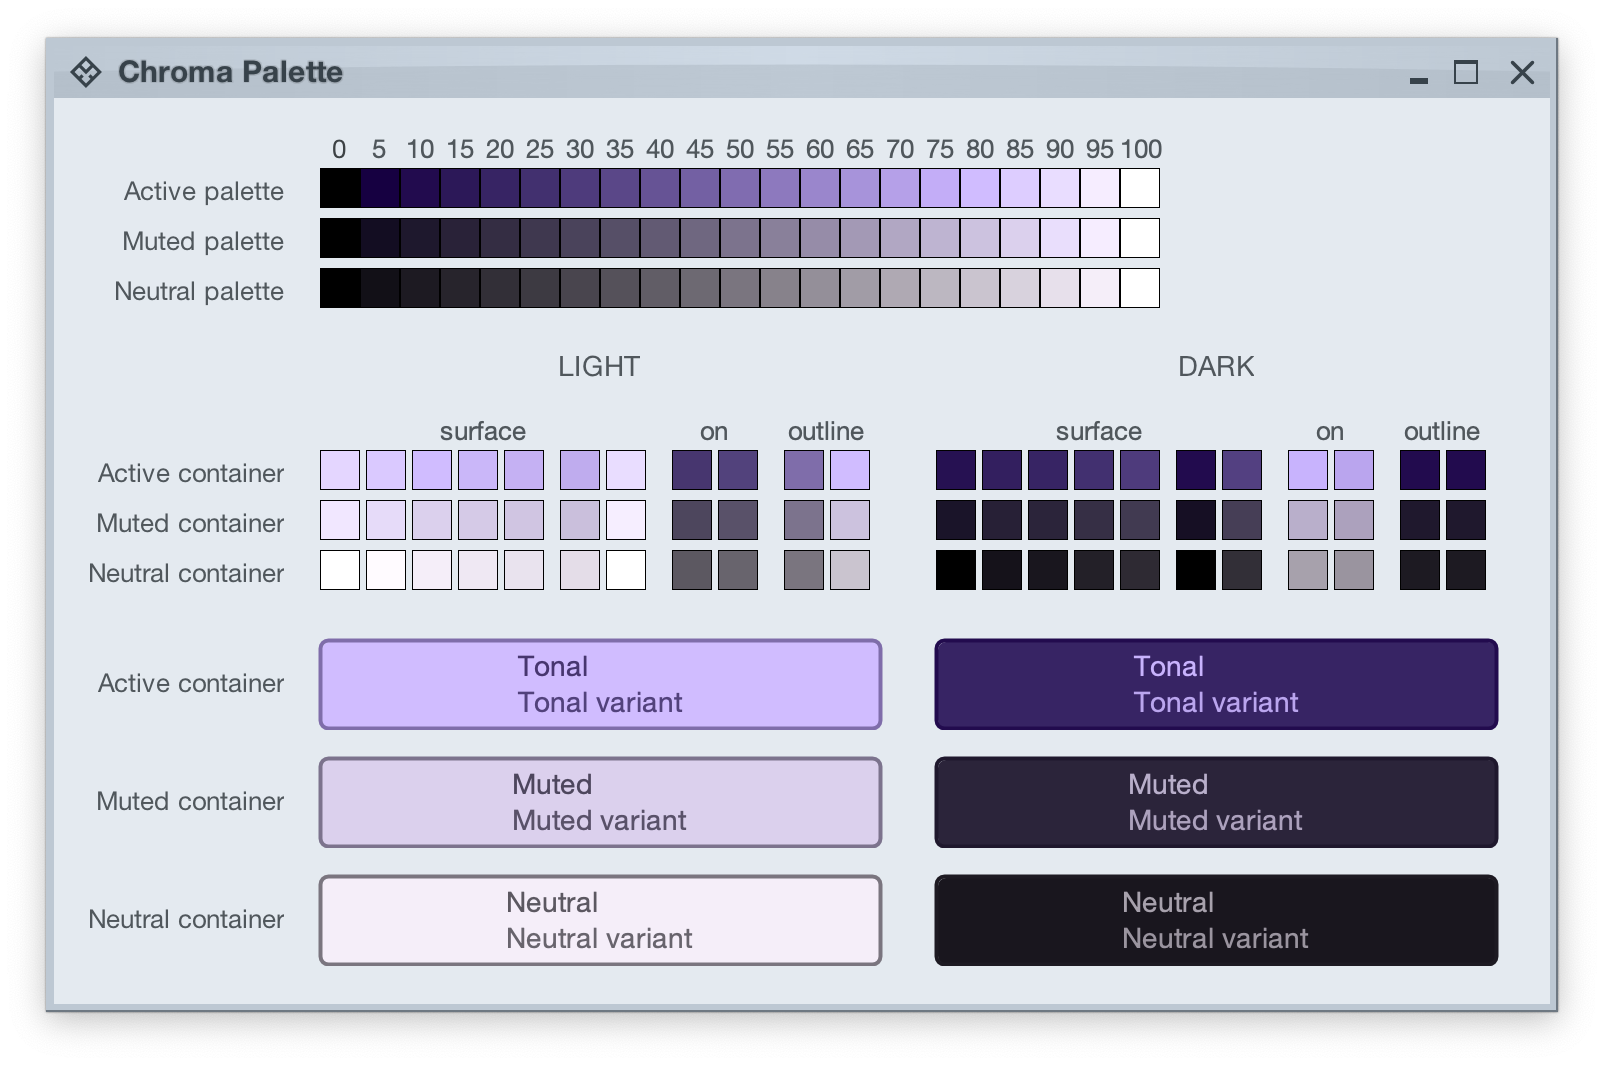
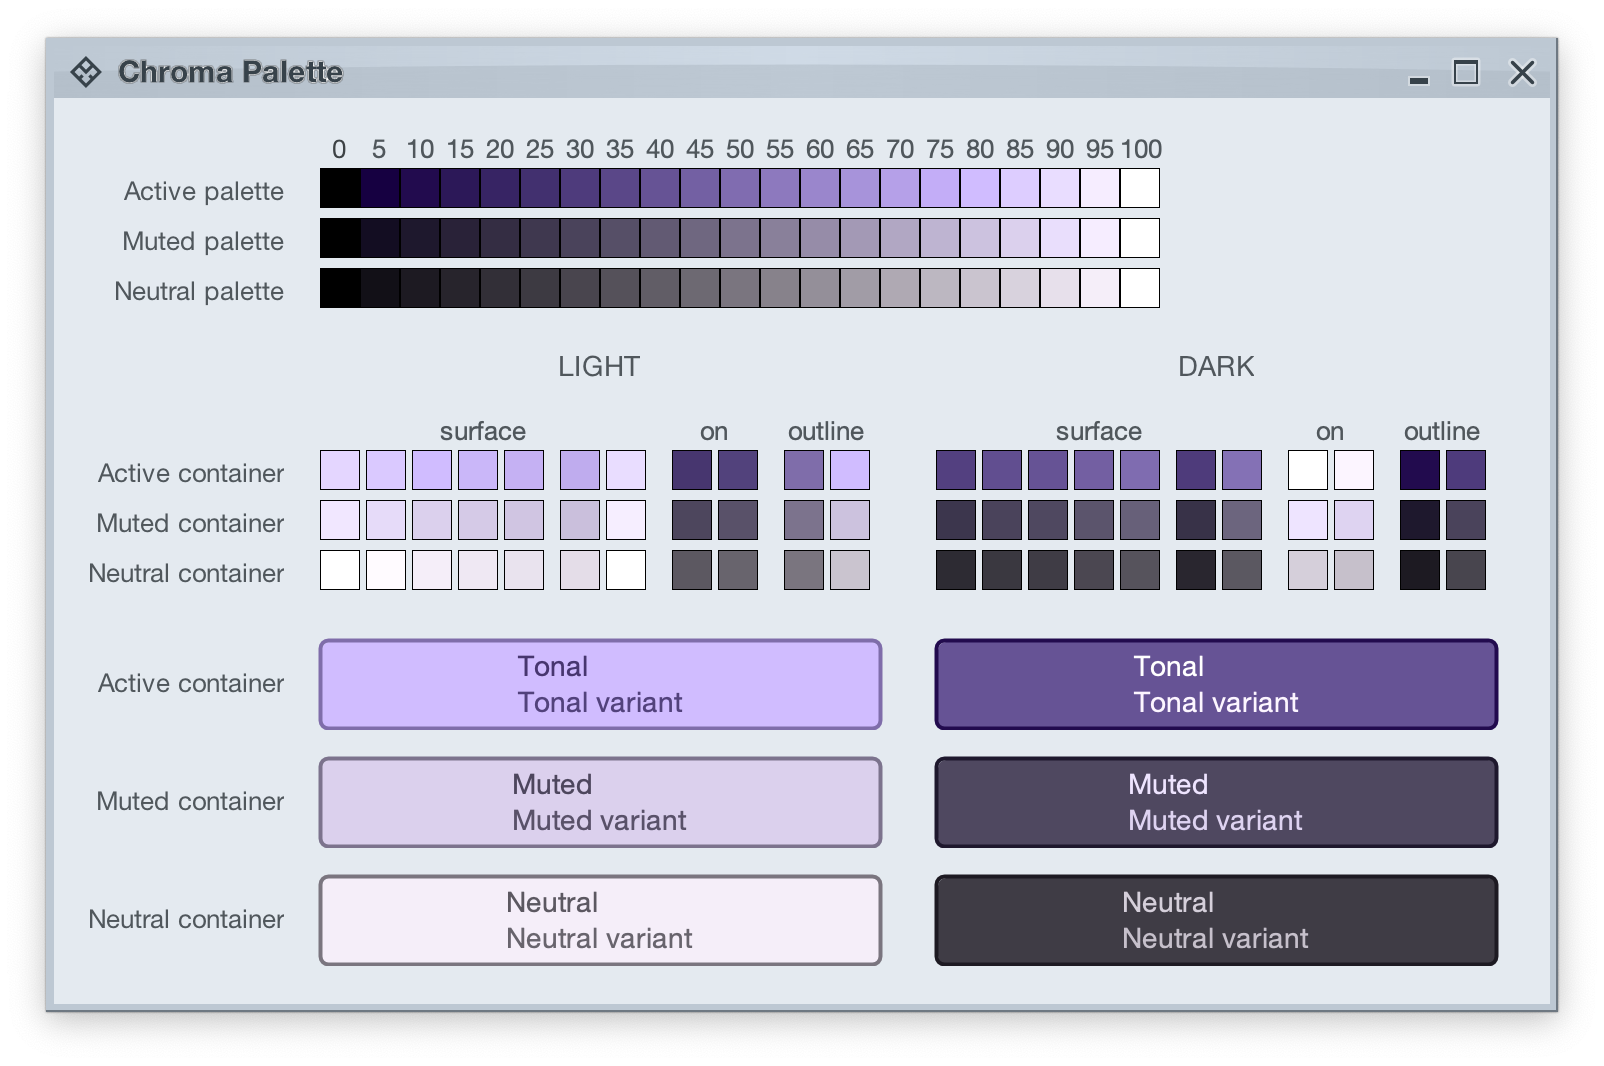
Tweaking tonal demos

diff --git a/demos/theming-demo/src/main/java/org/pushingpixels/radiance/demo/theming/main/palette/walkthrough/Step4ComponentStatesDarkDemo.java b/demos/theming-demo/src/main/java/org/pushingpixels/radiance/demo/theming/main/palette/walkthrough/Step4ComponentStatesDarkDemo.java
@@ -1,0 +1,135 @@
+/*
+ * Copyright (c) 2005-2025 Radiance Kirill Grouchnikov. All Rights Reserved.
+ *
+ * Redistribution and use in source and binary forms, with or without
+ * modification, are permitted provided that the following conditions are met:
+ *
+ *  o Redistributions of source code must retain the above copyright notice,
+ *    this list of conditions and the following disclaimer.
+ *
+ *  o Redistributions in binary form must reproduce the above copyright notice,
+ *    this list of conditions and the following disclaimer in the documentation
+ *    and/or other materials provided with the distribution.
+ *
+ *  o Neither the name of the copyright holder nor the names of
+ *    its contributors may be used to endorse or promote products derived
+ *    from this software without specific prior written permission.
+ *
+ * THIS SOFTWARE IS PROVIDED BY THE COPYRIGHT HOLDERS AND CONTRIBUTORS "AS IS"
+ * AND ANY EXPRESS OR IMPLIED WARRANTIES, INCLUDING, BUT NOT LIMITED TO,
+ * THE IMPLIED WARRANTIES OF MERCHANTABILITY AND FITNESS FOR A PARTICULAR
+ * PURPOSE ARE DISCLAIMED. IN NO EVENT SHALL THE COPYRIGHT OWNER OR
+ * CONTRIBUTORS BE LIABLE FOR ANY DIRECT, INDIRECT, INCIDENTAL, SPECIAL,
+ * EXEMPLARY, OR CONSEQUENTIAL DAMAGES (INCLUDING, BUT NOT LIMITED TO,
+ * PROCUREMENT OF SUBSTITUTE GOODS OR SERVICES; LOSS OF USE, DATA, OR PROFITS;
+ * OR BUSINESS INTERRUPTION) HOWEVER CAUSED AND ON ANY THEORY OF LIABILITY,
+ * WHETHER IN CONTRACT, STRICT LIABILITY, OR TORT (INCLUDING NEGLIGENCE
+ * OR OTHERWISE) ARISING IN ANY WAY OUT OF THE USE OF THIS SOFTWARE,
+ * EVEN IF ADVISED OF THE POSSIBILITY OF SUCH DAMAGE.
+ */
+package org.pushingpixels.radiance.demo.theming.main.palette.walkthrough;
+
+import org.pushingpixels.ephemeral.chroma.dynamiccolor.ContainerConfiguration;
+import org.pushingpixels.ephemeral.chroma.hct.Hct;
+import org.pushingpixels.ephemeral.chroma.palettes.BaseTonalPalette;
+import org.pushingpixels.ephemeral.chroma.palettes.TonalPalette;
+import org.pushingpixels.radiance.demo.theming.main.RadianceLogo;
+import org.pushingpixels.radiance.theming.api.ContainerColorTokensBundle;
+import org.pushingpixels.radiance.theming.api.RadianceSkin;
+import org.pushingpixels.radiance.theming.api.RadianceThemingCortex;
+import org.pushingpixels.radiance.theming.api.RadianceThemingSlices;
+import org.pushingpixels.radiance.theming.api.painter.decoration.ArcDecorationPainter;
+import org.pushingpixels.radiance.theming.api.painter.decoration.ImageWrapperDecorationPainter;
+import org.pushingpixels.radiance.theming.api.painter.decoration.MarbleNoiseDecorationPainter;
+import org.pushingpixels.radiance.theming.api.painter.outline.FlatOutlinePainter;
+import org.pushingpixels.radiance.theming.api.painter.surface.ClassicSurfacePainter;
+import org.pushingpixels.radiance.theming.api.painter.surface.GlassSurfacePainter;
+import org.pushingpixels.radiance.theming.api.painter.surface.SpecularRectangularSurfacePainter;
+import org.pushingpixels.radiance.theming.api.palette.ContainerColorTokensUtils;
+import org.pushingpixels.radiance.theming.api.shaper.ClassicButtonShaper;
+
+import javax.swing.*;
+import java.awt.*;
+
+public class Step4ComponentStatesDarkDemo extends JFrame {
+    public Step4ComponentStatesDarkDemo() {
+        super("Chroma Palette");
+
+        this.setLayout(new FlowLayout());
+
+        JToggleButton toggleButton = new JToggleButton("selected");
+        toggleButton.setSelected(true);
+
+        JButton enabledButton = new JButton("enabled");
+
+        JButton disabledButton = new JButton("disabled");
+        disabledButton.setEnabled(false);
+
+        this.add(toggleButton);
+        this.add(enabledButton);
+        this.add(disabledButton);
+
+        this.setVisible(true);
+        this.pack();
+        this.setLocationRelativeTo(null);
+        this.setDefaultCloseOperation(JFrame.DISPOSE_ON_CLOSE);
+        RadianceLogo.tonalConfigureOn(this);
+    }
+
+    private static class SampleSkin extends RadianceSkin {
+        public SampleSkin() {
+            BaseTonalPalette activePalette = TonalPalette.fromHct(Hct.from(300.0, 40.0, 40.0));
+            BaseTonalPalette mutedPalette = TonalPalette.fromHct(Hct.from(300.0, 18.0, 40.0));
+            BaseTonalPalette neutralPalette = TonalPalette.fromHct(Hct.from(300.0, 8.0, 40.0));
+
+            ContainerColorTokensBundle defaultBundle = new ContainerColorTokensBundle(
+                /* activeContainerTokens */ ContainerColorTokensUtils.getContainerTokens(
+                    /* seed */ activePalette.getHct(40.0),
+                    /* containerConfiguration */ ContainerConfiguration.defaultDark()),
+                /* mutedContainerTokens */ ContainerColorTokensUtils.getContainerTokens(
+                    /* seed */ mutedPalette.getHct(32.0),
+                    /* containerConfiguration */ ContainerConfiguration.defaultDark()),
+                /* neutralContainerTokens */ ContainerColorTokensUtils.getContainerTokens(
+                    /* seed */ neutralPalette.getHct(26.0),
+                    /* containerConfiguration */ ContainerConfiguration.defaultDark()),
+                /* isSystemDark */ true);
+
+            this.registerDecorationAreaTokensBundle(defaultBundle,
+                    RadianceThemingSlices.DecorationAreaType.NONE);
+
+            this.registerAsDecorationArea(
+                defaultBundle.getActiveContainerTokens(),
+                RadianceThemingSlices.DecorationAreaType.PRIMARY_TITLE_PANE,
+                RadianceThemingSlices.DecorationAreaType.SECONDARY_TITLE_PANE,
+                RadianceThemingSlices.DecorationAreaType.HEADER);
+
+            this.buttonShaper = new ClassicButtonShaper();
+            this.surfacePainter = new SpecularRectangularSurfacePainter(new GlassSurfacePainter(), 1.0f);
+            this.outlinePainter = new FlatOutlinePainter();
+
+            ImageWrapperDecorationPainter decorationPainter = new MarbleNoiseDecorationPainter();
+            decorationPainter.setBaseDecorationPainter(new ArcDecorationPainter());
+            decorationPainter.setTextureAlpha(0.3f);
+            this.decorationPainter = decorationPainter;
+
+            this.highlightSurfacePainter = new ClassicSurfacePainter();
+        }
+
+        @Override
+        public String getDisplayName() {
+            return "Sample Tonal";
+        }
+    }
+
+    public static void main(String[] args) {
+        RadianceSkin tonalSkin = new SampleSkin();
+
+        SwingUtilities.invokeLater(() -> {
+            JFrame.setDefaultLookAndFeelDecorated(true);
+            RadianceThemingCortex.GlobalScope.setFocusKind(RadianceThemingSlices.FocusKind.NONE);
+            RadianceThemingCortex.GlobalScope.setSkin(tonalSkin);
+            new Step4ComponentStatesDarkDemo().setVisible(true);
+        });
+    }
+
+}

diff --git a/demos/theming-demo/src/main/java/org/pushingpixels/radiance/demo/theming/main/palette/walkthrough/Step3ContainersDemo.java b/demos/theming-demo/src/main/java/org/pushingpixels/radiance/demo/theming/main/palette/walkthrough/Step3ContainersDemo.java
@@ -80,15 +80,15 @@ public class Step3ContainersDemo extends JFrame {
 
         ContainerColorTokensBundle darkBundle = new ContainerColorTokensBundle(
             /* activeContainerTokens */ ContainerColorTokensUtils.getContainerTokens(
-                /* seed */ activePalette.getHct(20.0),
+                /* seed */ activePalette.getHct(40.0),
                 /* containerConfiguration */ ContainerConfiguration.defaultDark()),
             /* mutedContainerTokens */ ContainerColorTokensUtils.getContainerTokens(
-                /* seed */ mutedPalette.getHct(16.0),
+                /* seed */ mutedPalette.getHct(32.0),
                 /* containerConfiguration */ ContainerConfiguration.defaultDark()),
             /* neutralContainerTokens */ ContainerColorTokensUtils.getContainerTokens(
-                /* seed */ neutralPalette.getHct(8.0),
+                /* seed */ neutralPalette.getHct(26.0),
                 /* containerConfiguration */ ContainerConfiguration.defaultDark()),
-            /* isSystemDark */ false);
+            /* isSystemDark */ true);
 
         builder.addROLabel("Active palette").xy(1, row, "right, bottom")
             .add(new TonalPalettePreview(activePalette, true))
